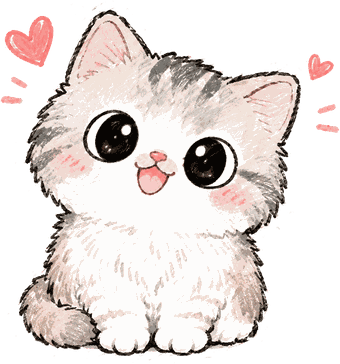
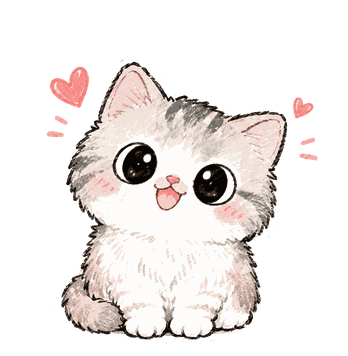
Normalize cat size and baseline across all four images
原始四張圖的貓身大小差很多（752x926 到 413x494），各自裁切後
造成切換時視差。改以貓本體（非裝飾）量測，統一縮放到相同尺寸、
共用 348x356 畫布並對齊同一條底線，切換時零位移。

diff --git a/invite/index.html b/invite/index.html
@@ -391,9 +391,14 @@
   /* The cutouts are transparent PNGs of the cat alone, so they sit
      directly on the paper — no disc, no mask, no blend mode. A soft
      drop shadow keeps them from looking pasted on. */
+  /* All four cutouts share one canvas (348x356) with the cat body scaled
+     to the same box and sitting on the same baseline, so swapping the
+     src cannot shift the layout or change the cat's apparent size.
+     `aspect-ratio` holds the slot even before an image decodes. */
   .cat{
     display:block;
     height:auto;
+    aspect-ratio:348 / 356;
     filter:drop-shadow(0 3px 5px rgba(23,19,15,.18));
   }
 
@@ -667,7 +672,7 @@
     <div class="panel" id="p-yes">
       <!-- the picture stands where the line used to; the closing words
            arrive only once the restaurant is settled -->
-      <img class="cat cat-hero" id="yes-cat" src="yes1-cat.png" alt="" width="340" height="364">
+      <img class="cat cat-hero" id="yes-cat" src="yes1-cat.png" alt="" width="348" height="356">
       <p class="big-script one-line" id="yes-done" hidden>那就這麼決定了，到時候見<span class="emo">🤙🏻</span></p>
       <p class="note" id="yes-hint">餐廳交給妳挑，點店名可以看 Google 地圖。</p>
 
@@ -738,7 +743,7 @@
     <div class="panel" id="p-no">
       <!-- image beside the words; the two lines are the message itself -->
       <div class="beside" id="no-head">
-        <img class="cat" id="no-cat" src="no-cat.png" alt="" width="340" height="393">
+        <img class="cat" id="no-cat" src="no-cat.png" alt="" width="348" height="356">
         <p class="beside-text">
           <span class="beside-lead" id="no-lead">那…什麼時候可以呢？</span>
           <span class="beside-sub" id="no-sub">寫下妳方便的時間，我配合妳。</span>
